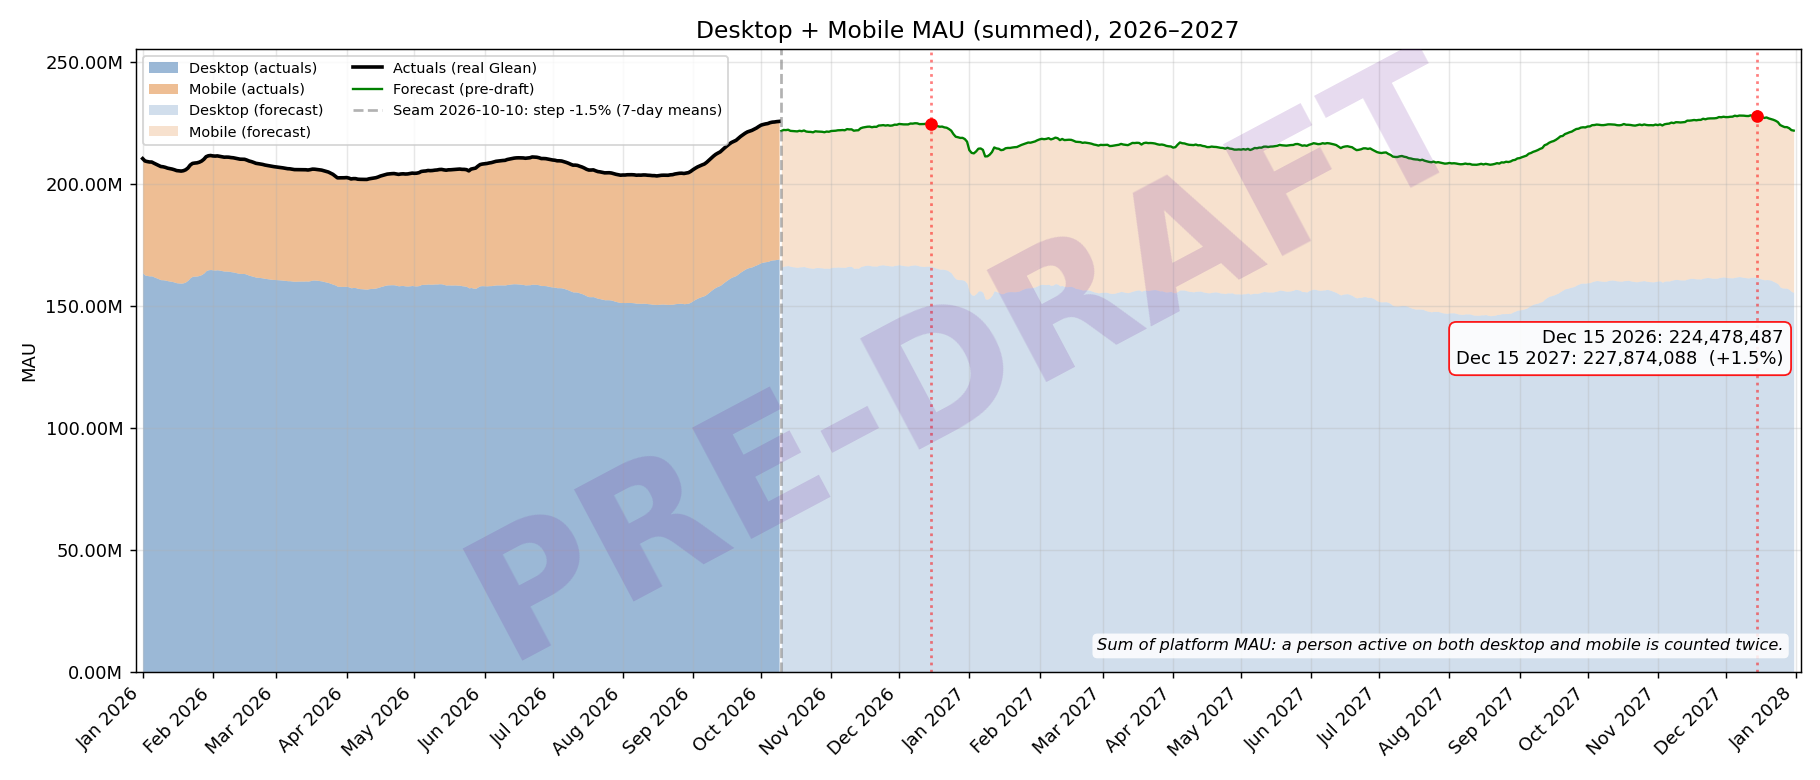
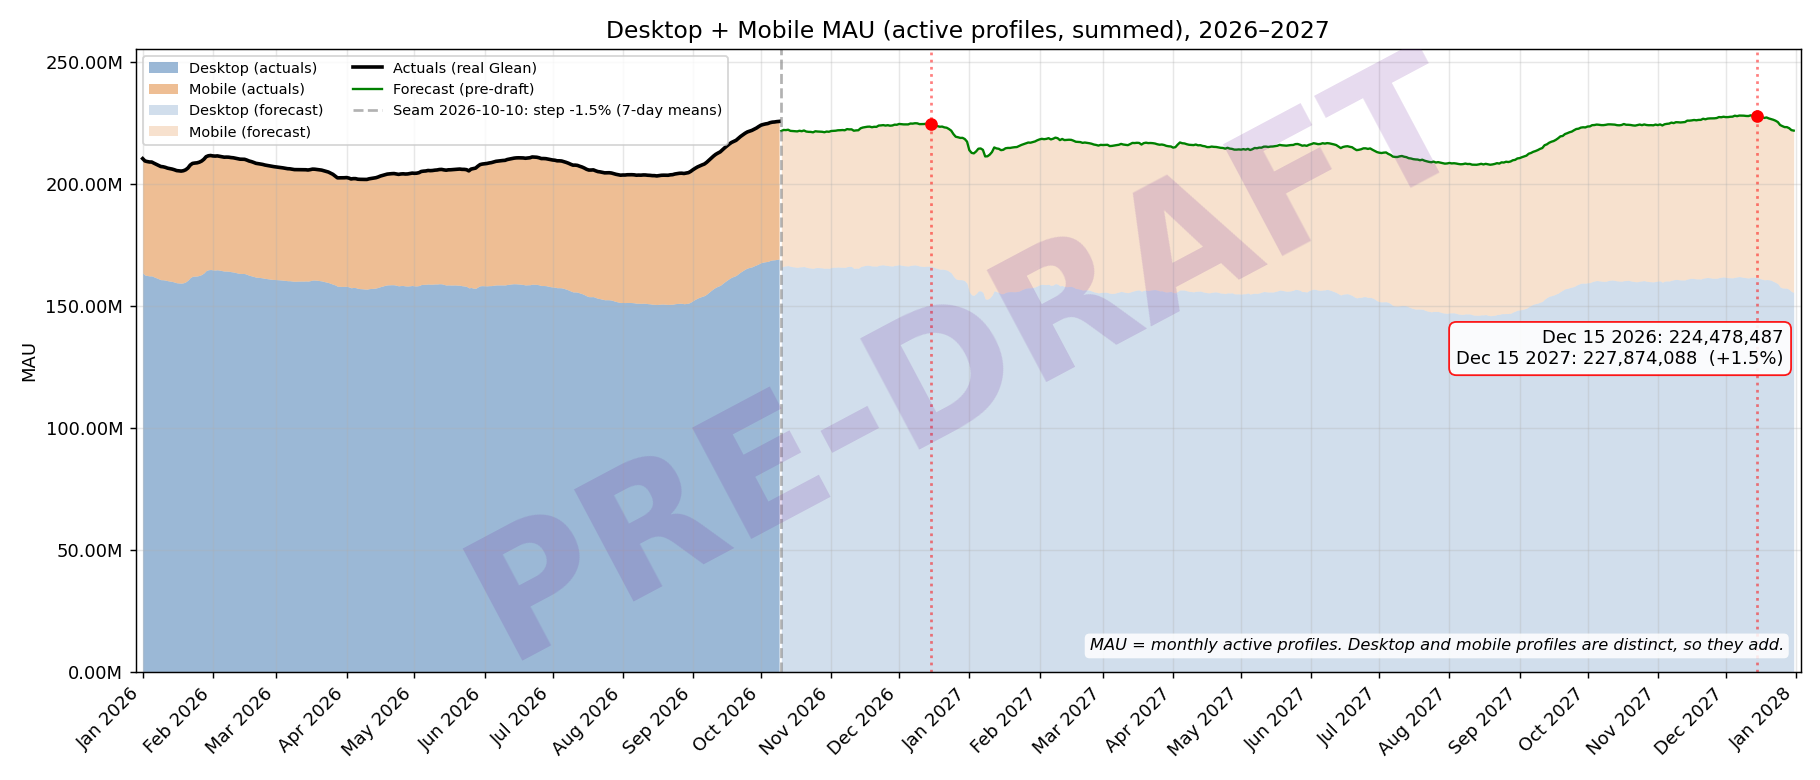
2027 MAU progress plots: drop the cross-device double-count caveat (Brendan 2026-10-15, confirmed with his manager: MAU is the official proxy for monthly active profiles, and desktop and mobile profiles are distinct, so they add). Combined figures now state that definition; title reads 'active profi

Changed region(s): [[0.5846, 0.8, 0.9846, 0.8308], [0.3385, 0.0308, 0.7385, 0.0615]]

diff --git a/scripts/plot_glean2027_mau_publication.py b/scripts/plot_glean2027_mau_publication.py
@@ -11,9 +11,9 @@ Seam gaps are shown, not hidden: actuals and forecast are separate lines with no
 states the seam step (mean of the first 7 forecast days vs the last 7 actual days, the LOCK.md definition). A zoomed
 figure around the seam makes the step legible.
 
-The combined figure sums platform MAU. A person active on desktop and mobile is counted in both, so the sum overstates
-distinct people; the figure says so on its face (the mobile HANDOFF.md forbids summing in the handoff package —
-this view was requested by Brendan on 2026-10-15 for a progress doc).
+The combined figure sums platform MAU. MAU is the official proxy for monthly active profiles, and desktop and mobile
+profiles are different things, so the sum is a valid profile count (Brendan's manager, 2026-10-15). The figure states
+the definition so readers do not take it for a count of people.
 
 Outputs (``<out-dir>/``): ``desktop_mau_2026_2027.png``, ``mobile_mau_2026_2027.png``, ``combined_mau_2026_2027.png``,
 ``seam_zoom_2026.png``, ``mau_overview_2026_2027.png`` (three stacked panels), ``numbers.csv``, and ``index.html`` (review page
@@ -54,7 +54,7 @@ ZOOM_END = pd.Timestamp("2026-11-15")
 DESKTOP_FILL = "#4a7fb5"
 MOBILE_FILL = "#e08a3c"
 VALUES_BOX_AT = {"desktop": (0.62, 0.03), "mobile": (0.99, 0.03), "combined": (0.99, 0.12)}   # clear of each curve's trough
-DOUBLE_COUNT_NOTE = "Sum of platform MAU: a person active on both desktop and mobile is counted twice."
+PROFILE_NOTE = "MAU = monthly active profiles. Desktop and mobile profiles are distinct, so they add."
 
 
 def load_platform_series(curves: pd.DataFrame) -> dict[str, tuple[pd.Series, pd.Series]]:
@@ -120,7 +120,7 @@ def style_axis(ax, *, title: str, start: pd.Timestamp, end: pd.Timestamp, month_
 PLATFORM_TITLES = {
     "desktop": "Desktop MAU (Firefox Desktop, all countries)",
     "mobile": "Mobile MAU (four apps, organic + marketing's paid plan)",
-    "combined": "Desktop + Mobile MAU (summed)",
+    "combined": "Desktop + Mobile MAU (active profiles, summed)",
 }
 
 
@@ -147,7 +147,7 @@ def plot_combined_stacked(series, out_dir: Path) -> None:
     style_axis(ax, title=f"{PLATFORM_TITLES['combined']}, 2026–2027", start=VIEW_START, end=VIEW_END)
     ax.set_ylim(0, combined[(combined.index >= VIEW_START)].max() * 1.12)
     ax.legend(loc="upper left", fontsize=8, ncol=2)
-    ax.text(0.99, 0.03, DOUBLE_COUNT_NOTE, transform=ax.transAxes, ha="right", va="bottom", fontsize=9, style="italic",
+    ax.text(0.99, 0.03, PROFILE_NOTE, transform=ax.transAxes, ha="right", va="bottom", fontsize=9, style="italic",
             bbox=dict(boxstyle="round,pad=0.3", facecolor="white", edgecolor="none", alpha=0.85))
     save(fig, out_dir / "combined_mau_2026_2027.png")
 
@@ -158,7 +158,7 @@ def plot_overview(series, out_dir: Path) -> None:
         values, is_actual = series[platform]
         draw_platform(ax, values, is_actual, start=VIEW_START, end=VIEW_END, values_box_at=VALUES_BOX_AT[platform])
         style_axis(ax, title=PLATFORM_TITLES[platform], start=VIEW_START, end=VIEW_END)
-    axes[-1].text(0.99, 0.02, DOUBLE_COUNT_NOTE, transform=axes[-1].transAxes, ha="right", va="bottom", fontsize=9, style="italic")
+    axes[-1].text(0.99, 0.02, PROFILE_NOTE, transform=axes[-1].transAxes, ha="right", va="bottom", fontsize=9, style="italic")
     save(fig, out_dir / "mau_overview_2026_2027.png")
 
 
@@ -197,7 +197,7 @@ FIGURES = [
     ("desktop_mau_2026_2027.png", "Desktop MAU. Real Glean desktop telemetry, 17 months of history; the 2027 dip in January repeats the "
                                   "Dec-2025 duplicate-id step the model learned as seasonality (not corrected, by choice)."),
     ("mobile_mau_2026_2027.png", "Mobile MAU, all four apps: our organic forecast plus the marketing data-science team's 2027 paid plan."),
-    ("combined_mau_2026_2027.png", "Desktop + Mobile, summed, with each platform stacked underneath. People active on both are counted twice."),
+    ("combined_mau_2026_2027.png", "Desktop + Mobile, summed, with each platform stacked underneath. MAU counts active profiles, and desktop and mobile profiles are distinct, so they add."),
     ("seam_zoom_2026.png", "Seam close-up, Sep 1 to Nov 15 2026. The forecast is not bridged to the actuals; the gap is what the "
                            "model gives today."),
 ]
@@ -229,8 +229,8 @@ code {{ background: #f4f4f4; padding: 1px 4px; }}
 &nbsp;|&nbsp; <b>Data as of:</b> {data_end} (last actual; forecast from the next day)</div>
 <h1>2027 MAU forecast — progress plots (PRE-DRAFT)</h1>
 <div class="callout"><b>Progress, not a forecast.</b> Both halves are pre-draft: neither is backtested, the mobile India/Indonesia
-correction is provisional, and the seam steps below are shown as they are, not smoothed. The combined line sums platform MAU,
-so anyone active on both desktop and mobile is counted twice.</div>
+correction is provisional, and the seam steps below are shown as they are, not smoothed. The combined line adds desktop and mobile
+MAU: MAU is the official proxy for monthly active <i>profiles</i>, and desktop and mobile profiles are distinct, so they add.</div>
 <p>Input: <code>{html.escape(str(curves_path))}</code> (desktop headline build beside the mobile total). PNGs sit beside this page, ready to paste into a doc.</p>
 <table><tr><th>population</th><th>last actual MAU</th><th>seam step (7-day means)</th><th>Dec 15 2026</th><th>Dec 15 2027</th><th>Dec→Dec</th></tr>{rows}</table>
 {figures}

diff --git a/scripts/_index.md b/scripts/_index.md
@@ -97,4 +97,4 @@ One-off runners, backfill tools, and utilities for local development. Not part o
 - `pull_paid_mau_2027.py` — **checkpoint the marketing DS team's 2027 paid Fenix MAU plan** (Brendan 2026-10-15: the handoff must carry organic + paid): runs `scripts/sql/paid_mau_2027_plan_daily.sql`, `paid_mau_2026_weekly_totals.sql`, `paid_mau_2026_weekly_by_country.sql` through `bq_query.py` (JSON kept verbatim), keeps the STMO query JSON and the quick-site dashboard (`--extra-source-dir`, copied from `gs://moz-fx-quick-prod-sites/<site>/` since the site is behind IAP) and writes `paid_mau_2027/paid_mau_2027.<scenario>.pull<date>.{parquet,csv,meta.json}`: daily world paid MAU 2026-10-10..2027-12-31 = the 2026 weekly "total" paid DAU × 4.792 × day factor (bridge; week 53 + upper bound from the site data, cross-checked vs BQ) then the plan's own 2027 rows, with the 90% band; plus `paid_country_shares.<end>.csv` (trailing-28d measured-paid share) and a plot. Never overwrites a pull
 - `compose_mobile_total_mau.py` — **TOTAL mobile MAU = organic + paid** (`mozaic_daily.mobile_total_mau`): organic build curves + raw actuals + paid plan + cap excess (held flat, `--cap-policy`) + country shares + the organic Prophet band → `mobile_total_mau_<seam>/csv/` (curves per population with organic/paid/total and the three world bands, canonical-layout twin, by country, Dec-15 summary), meta, components plot, 2 × 5. History rows == raw actuals asserted; by-country sums == world asserted. No model run
 - `render_mobile_total_mau_handoff.py` — the mobile handoff package on the composed total (`handoff/glean2027_mobile_mau_handoff/` + zip: page with the numbers table (total / organic / paid), both component bands and the total band, canonical plots, by country, file guide; `glean2027_mau_desktop_and_mobile.csv` with desktop total + mobile total / organic / paid). Supersedes `render_mobile_mau_handoff.py`, which rendered the organic-only package
-- `plot_glean2027_mau_publication.py` — doc-ready PRE-DRAFT progress plots from `handoff/glean2027_mau_desktop_and_mobile.csv`: desktop, mobile total, and desktop + mobile **summed** (double-counts cross-device people; said on the figure), Jan 2026 → Dec 2027 on one axis, seam gaps unbridged with the 7-day seam step in the legend, a seam close-up, `numbers.csv`, and an `index.html` review page with a freshness banner, under `data-official/2027-glean-draft/plots/publication/`
+- `plot_glean2027_mau_publication.py` — doc-ready PRE-DRAFT progress plots from `handoff/glean2027_mau_desktop_and_mobile.csv`: desktop, mobile total, and desktop + mobile **summed** (valid: MAU = monthly active profiles, and desktop and mobile profiles are distinct; the figure says so), Jan 2026 → Dec 2027 on one axis, seam gaps unbridged with the 7-day seam step in the legend, a seam close-up, `numbers.csv`, and an `index.html` review page with a freshness banner, under `data-official/2027-glean-draft/plots/publication/`

diff --git a/data-official/2027-glean-draft/_index.md b/data-official/2027-glean-draft/_index.md
@@ -52,7 +52,7 @@ Start with `LOCK.md` (what is locked and why), then `PROCEDURE.html` (every deci
 | `linux_bot/`, `comparison_glean_real_mau_additive_b_2026-10-14/` | the Linux bot-ISP measurement from real Glean client data (CSVs, `_index.md`), the `b` overlay curves + spec; **the headline build** with its `csv/` and `plots/canonical/` |
 | `csv/`, `plots/`, `plots/canonical/`, `plots/comparisons/` | the locked build's curves, Dec-15 summary, build comparison, Legacy comparison table, real-Glean comparison by horizon, real-units restatement, Easter alignment; canonical-format plots (purple PRE-DRAFT); comparison plots |
 | `intervals/` | build-1 DAU Prophet bands (kept; the Prophet band is not usable at this horizon) |
-| `plots/publication/` | doc-ready progress plots, 2026–2027 continuous: desktop, mobile total, desktop + mobile summed (double-counts cross-device people), seam close-up, `index.html` (`scripts/plot_glean2027_mau_publication.py`, 2026-10-15) |
+| `plots/publication/` | doc-ready progress plots, 2026–2027 continuous: desktop, mobile total, desktop + mobile summed (MAU = active profiles, so they add), seam close-up, `index.html` (`scripts/plot_glean2027_mau_publication.py`, 2026-10-15) |
 | `_internal_plots/`, `_shakedown_nofill_*`, `_superseded_float_inputs_*` | internal diagnostics and records; not for circulation |
 
 ## Rules for this directory
